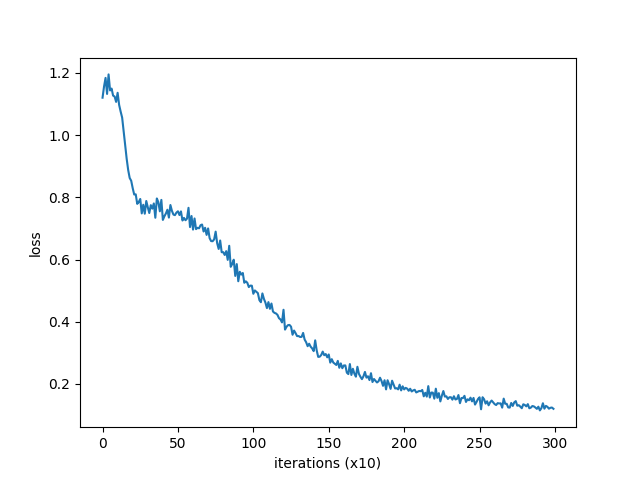
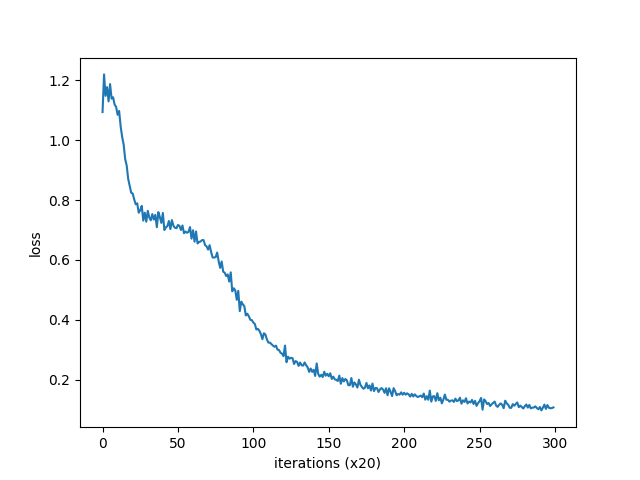
Refacotr Trainer to fix interface of each method

diff --git a/test/test_trainer.py b/test/test_trainer.py
@@ -3,6 +3,7 @@ import sys
 sys.path.append("../lib")
 sys.path.append("../lib/concerns")
 import numpy as np
+from numpy.testing import assert_array_equal
 import time
 import os.path
 from os import path
@@ -13,33 +14,34 @@ from trainer import Trainer
 
 class TestTrainer(unittest.TestCase):
     def setUp(self):
-        self.max_epoch  = 300
-        self.batch_size = 30
-        hidden_size     = 10
-        learning_rate   = 1.0
-        model           = TwoLayerNet(input_size=2, hidden_size=hidden_size, output_size=3)
-        optimizer       = SGD(lr=learning_rate)
-        self.trainer    = Trainer(model, optimizer)
+        model          = TwoLayerNet(input_size=2, hidden_size=10, output_size=3)
+        optimizer      = SGD(lr=1.0)
+        self.trainer   = Trainer(model, optimizer)
         self.x, self.t = load_data()
         self.data_size = len(self.x)
-        xx, tt = self.trainer._shuffle_data(self.data_size, self.x, self.t)
-        self.batch_x = xx[1 * self.batch_size: (1 + 1) * self.batch_size]
-        self.batch_t = tt[1 * self.batch_size: (1 + 1) * self.batch_size]
-        self.loss = self.trainer._calculate_loss(self.batch_x, self.batch_t)
-        self.params, self.grads = self.trainer._remove_duplicate()
-        self.trainer._update_params_with_grads(self.params, self.grads, self.loss)
-        self.training_process = self.trainer.fit(self.x, self.t, self.max_epoch, self.batch_size, eval_interval=10)
 
     def test_shuffle_data(self):
-        self.assertEqual((300, 2), np.array(self.x).shape)
-        self.assertEqual((300, 3), np.array(self.t).shape)
+        xx, tt = self.trainer._shuffle_data(self.data_size, self.x, self.t)
+        self.assertEqual((300, 2), np.array(xx).shape)
+        self.assertEqual((300, 3), np.array(tt).shape)
 
     def test_calculate_loss(self):
-        self.assertEqual(1.1, float("{:.1f}".format(self.loss)))
+        batch_size = 32
+        xx, tt = self.trainer._shuffle_data(self.data_size, self.x, self.t)
+        batch_x = xx[1 * batch_size: (1 + 1) * batch_size]
+        batch_t = tt[1 * batch_size: (1 + 1) * batch_size]
+        loss = self.trainer._calculate_loss(batch_x, batch_t)
+        self.assertEqual(1.1, float("{:.1f}".format(loss)))
 
     def test_remove_duplicate(self):
-        param_1, param_2, param_3, param_4 = self.params
-        grad_1, grad_2, grad_3, grad_4 = self.grads
+        batch_size = 32
+        xx, tt = self.trainer._shuffle_data(self.data_size, self.x, self.t)
+        batch_x = xx[1 * batch_size: (1 + 1) * batch_size]
+        batch_t = tt[1 * batch_size: (1 + 1) * batch_size]
+        loss = self.trainer._calculate_loss(batch_x, batch_t)
+        params, grads = self.trainer._remove_duplicate()
+        param_1, param_2, param_3, param_4 = params
+        grad_1, grad_2, grad_3, grad_4 = grads
         self.assertEqual((2, 10), param_1.shape)
         self.assertEqual((10,), param_2.shape)
         self.assertEqual((10, 3), param_3.shape)
@@ -49,20 +51,54 @@ class TestTrainer(unittest.TestCase):
         self.assertEqual((10, 3), grad_3.shape)
         self.assertEqual( (3,), grad_4.shape)
 
-    def test_update_params_with_grads(self):
-        self.assertEqual(1.0684538647607518, self.trainer.total_loss)
-        self.assertEqual(9, self.trainer.loss_count)
-
     def test_evaluate(self):
+        batch_size = 32
+        xx, tt = self.trainer._shuffle_data(self.data_size, self.x, self.t)
+        batch_x = xx[1 * batch_size: (1 + 1) * batch_size]
+        batch_t = tt[1 * batch_size: (1 + 1) * batch_size]
+        total_loss = 0
+        loss_count = 0
+        loss = self.trainer._calculate_loss(batch_x, batch_t)
+        total_loss += loss
+        loss_count += 1
+        params, grads = self.trainer._remove_duplicate()
         start_time = time.time()
-        max_iters = self.data_size // self.batch_size
-        self.assertEqual("| epoch 301 |  iter 2 / 10 | time 0[s] | loss 0.12", self.trainer._evaluate(start_time, 1, max_iters))
+        current_epoch = 0
+        max_iters = self.data_size // batch_size
+        avarage_loss, training_status = self.trainer._evaluate(total_loss, loss_count, start_time, current_epoch, 1, max_iters)
+        self.assertEqual(1.0982153338384055, avarage_loss)
+        self.assertEqual("| epoch 1 |  iter 2 / 9 | time 0[s] | loss 1.10", training_status)
 
     def test_fit(self):
-        self.assertEqual(300, len(self.training_process))
+        loss_list, training_process = self.trainer.fit(self.x, self.t)
+        assert_array_equal(np.array([
+            1.095670688853155,
+            1.166632183444487,
+            1.1176750111873825,
+            1.1790605366611793,
+            1.1308071491715788,
+            1.1796679902482832,
+            1.1401573329955508,
+            1.1263507954471639,
+            1.1260232915246664,
+            1.1018855740540143
+        ]), np.array(loss_list))
+        self.assertEqual([
+            "| epoch 1 |  iter 1 / 9 | time 0[s] | loss 1.10",
+            "| epoch 2 |  iter 1 / 9 | time 0[s] | loss 1.17",
+            "| epoch 3 |  iter 1 / 9 | time 0[s] | loss 1.12",
+            "| epoch 4 |  iter 1 / 9 | time 0[s] | loss 1.18",
+            "| epoch 5 |  iter 1 / 9 | time 0[s] | loss 1.13",
+            "| epoch 6 |  iter 1 / 9 | time 0[s] | loss 1.18",
+            "| epoch 7 |  iter 1 / 9 | time 0[s] | loss 1.14",
+            "| epoch 8 |  iter 1 / 9 | time 0[s] | loss 1.13",
+            "| epoch 9 |  iter 1 / 9 | time 0[s] | loss 1.13",
+            "| epoch 10 |  iter 1 / 9 | time 0[s] | loss 1.10"
+        ], training_process)
 
     def test_save_plot_image(self):
-        self.trainer.save_plot_image("../img/training_plot.png")
+        loss_list, *_ = self.trainer.fit(self.x, self.t, max_epoch=300, batch_size=30)
+        self.trainer.save_plot_image(loss_list, "../img/training_plot.png")
         self.assertEqual(True, path.exists("../img/training_plot.png"))
 
 if __name__ == "__main__":

diff --git a/lib/trainer.py b/lib/trainer.py
@@ -7,13 +7,8 @@ from clip_grads import *
 
 class Trainer:
     def __init__(self, model, optimizer):
-        self.model         = model
-        self.optimizer     = optimizer
-        self.loss_list     = []
-        self.eval_interval = None
-        self.current_epoch = 0
-        self.total_loss    = 0
-        self.loss_count    = 0
+        self.model     = model
+        self.optimizer = optimizer
 
     def _shuffle_data(self, data_size, x, t):
         index = np.random.permutation(data_size)
@@ -57,25 +52,21 @@ class Trainer:
             if not find_flg: break
         return params, grads
 
-    def _update_params_with_grads(self, params, grads, loss):
-        self.optimizer.update(params, grads)
-        self.total_loss += loss
-        self.loss_count += 1
-
-    def _evaluate(self, start_time, iters, max_iters):
-        avarage_loss = self.total_loss / self.loss_count
+    def _evaluate(self, total_loss, loss_count, start_time, current_epoch, iters, max_iters):
+        avarage_loss = (total_loss / loss_count)
         elapsed_time = time.time() - start_time
-        self.loss_list.append(float(avarage_loss))
-        self.total_loss = 0
-        self.loss_count = 0
-        return "| epoch %d |  iter %d / %d | time %d[s] | loss %.2f" % (self.current_epoch + 1, iters + 1, max_iters, elapsed_time, avarage_loss)
+        training_status = "| epoch %d |  iter %d / %d | time %d[s] | loss %.2f" % (current_epoch + 1, iters + 1, max_iters, elapsed_time, avarage_loss)
+        return avarage_loss, training_status
 
     def fit(self, x, t, max_epoch=10, batch_size=32, max_grad=None, eval_interval=20):
+        total_loss = 0
+        loss_count = 0
         data_size = len(x)
         max_iters = data_size // batch_size
-        self.eval_interval = eval_interval
         start_time = time.time()
+        loss_list = []
         training_process = []
+        current_epoch = 0
         for epoch in range(max_epoch):
             xx, tt = self._shuffle_data(data_size, x, t)
             for iters in range(max_iters):
@@ -85,18 +76,24 @@ class Trainer:
                 params, grads = self._remove_duplicate()
                 if max_grad is not None:
                     clip_grads(grads, max_grad)
-                self._update_params_with_grads(params, grads, loss)
+                self.optimizer.update(params, grads)
+                total_loss += loss
+                loss_count += 1
                 if (eval_interval is not None) and (iters % eval_interval) == 0:
-                    training_process.append(self._evaluate(start_time, iters, max_iters))
-            self.current_epoch += 1
-        return training_process
+                    avarage_loss, training_status = self._evaluate(total_loss, loss_count, start_time, current_epoch, iters, max_iters)
+                    total_loss = 0
+                    loss_count = 0
+                    loss_list.append(avarage_loss)
+                    training_process.append(training_status)
+            current_epoch += 1
+        return loss_list, training_process
 
-    def save_plot_image(self, path, ylim=None):
+    def save_plot_image(self, loss_list, path, eval_interval=20, ylim=None):
         plt.figure()
-        x = np.arange(len(self.loss_list))
+        x = np.arange(len(loss_list))
         if ylim is not None:
             plt.ylim(*ylim)
-        plt.plot(x, self.loss_list, label="train")
-        plt.xlabel("iterations (x{})".format(str(self.eval_interval)))
+        plt.plot(x, loss_list, label="train")
+        plt.xlabel("iterations (x{})".format(str(eval_interval)))
         plt.ylabel("loss")
         plt.savefig(path)
